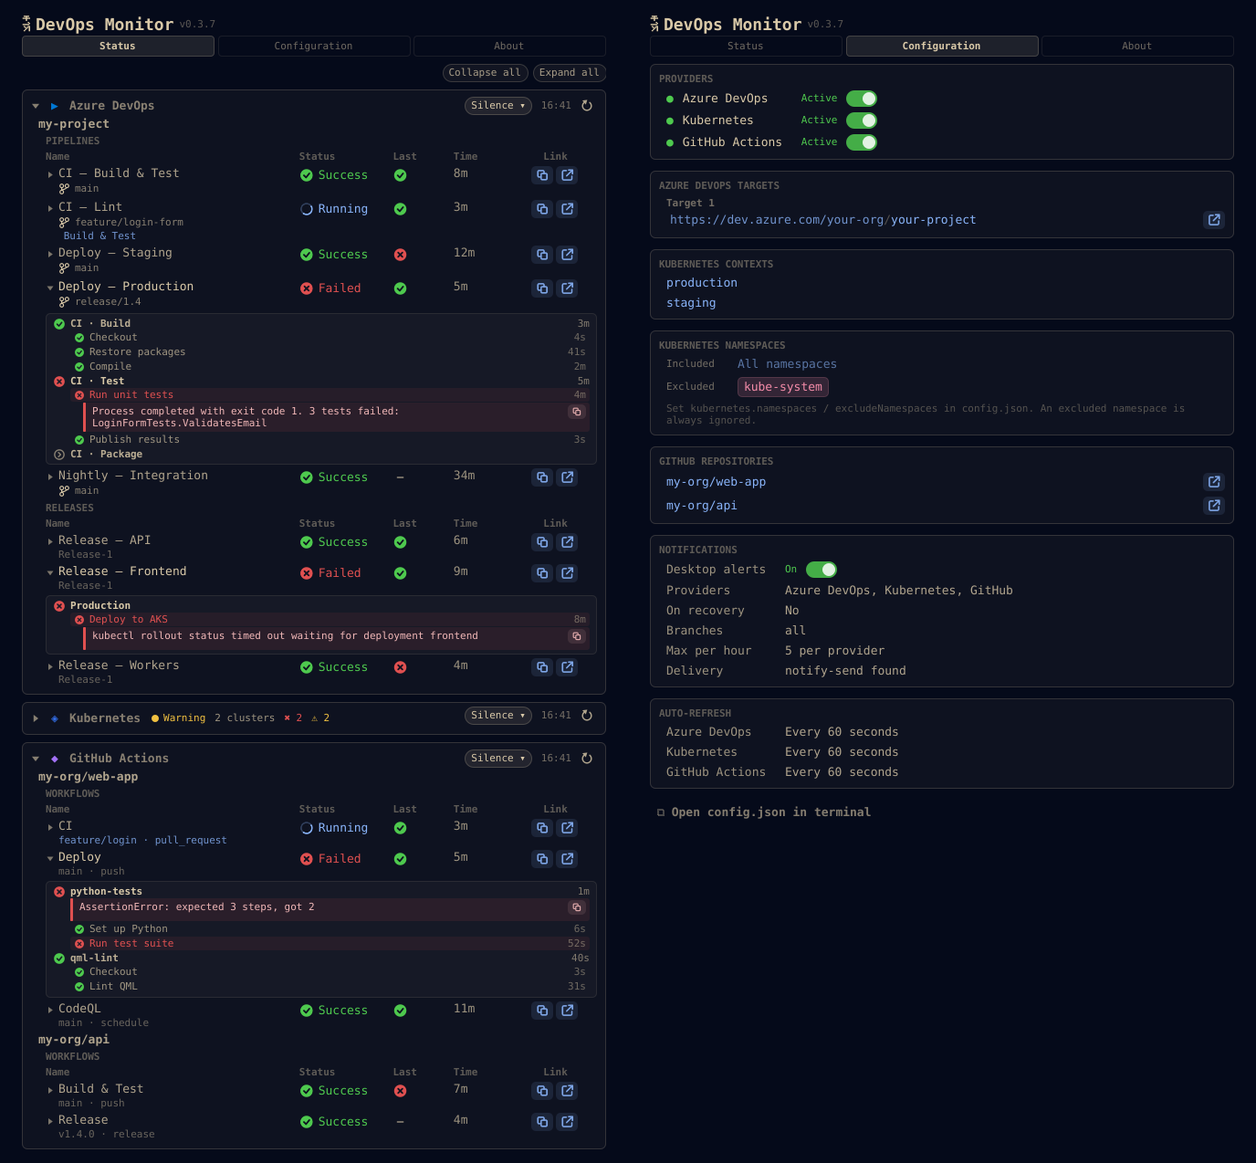
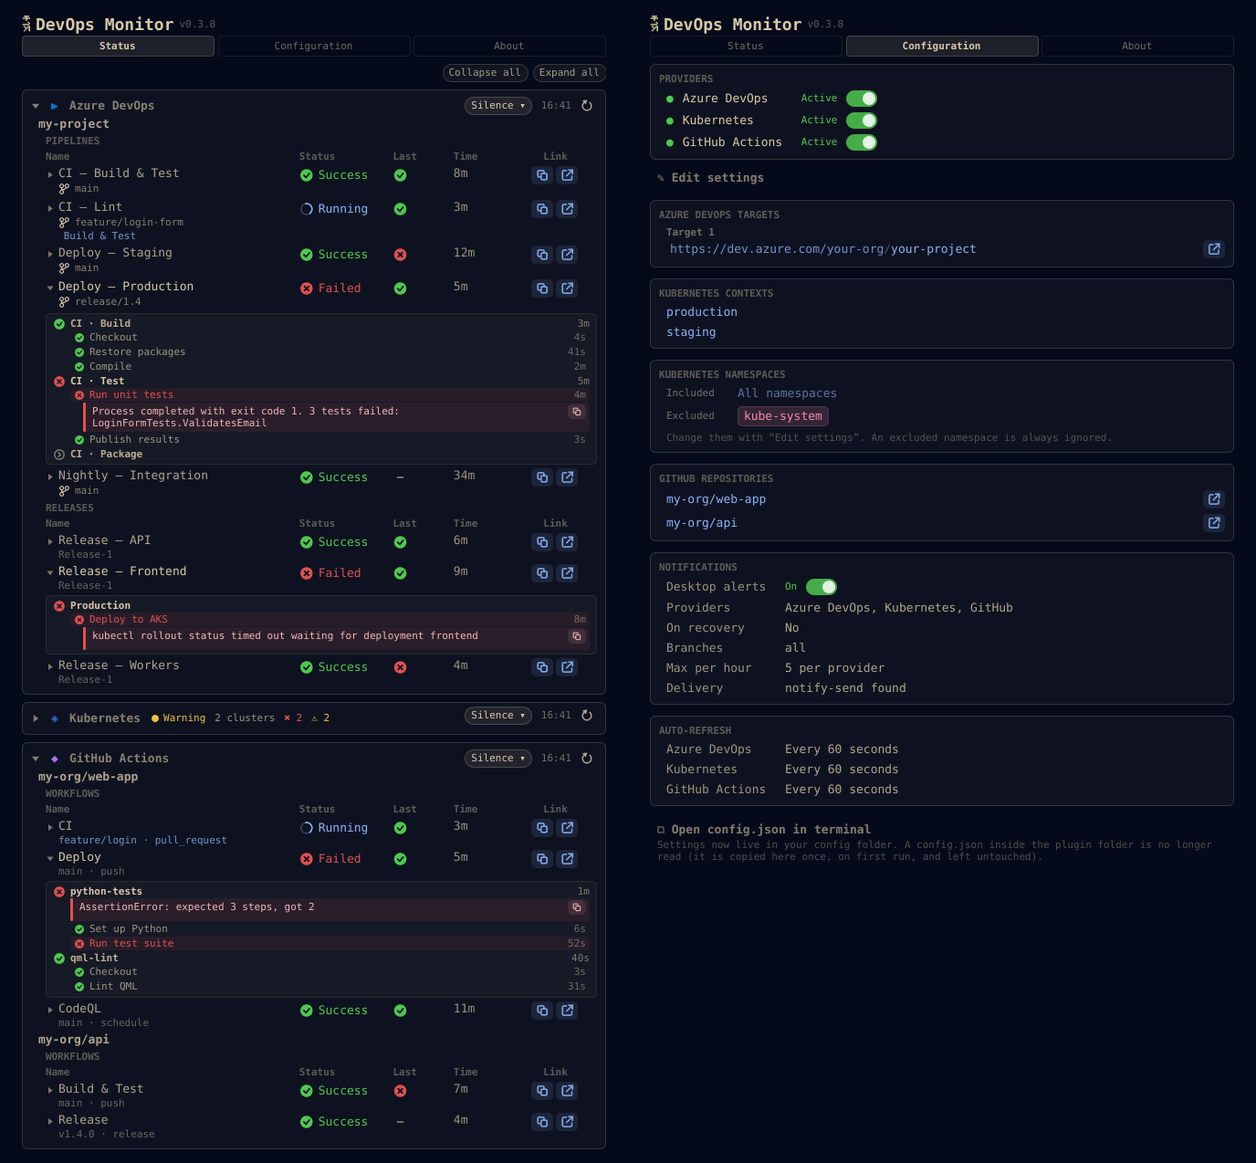
Docs and preview for 0.3.8: settings editor, new config location, migration
Claude-Session: https://claude.ai/code/session_01C5tsGxNbEP2C4eUG67qErP

diff --git a/docs/architecture.md b/docs/architecture.md
@@ -25,7 +25,7 @@
 
 2. **`BarWidget.qml` is the sole entry point.** It instantiates `Service` and loads `Panel.qml` via a `Loader`. The manifest declares only `bar-widget`.
 
-3. **`Service.qml` owns all data fetching.** It reads `config.json` on startup, builds subprocess arguments, and runs the Python scripts. The UI only reads properties.
+3. **`Service.qml` owns all data fetching.** It reads `config.json` (in the user's config folder) on startup, builds subprocess arguments, and runs the Python scripts. The UI only reads properties.
 
 4. **Python scripts, not shell scripts.** All CLI interaction happens in `scripts/azure_devops.py`, `scripts/kubernetes.py` and `scripts/github_actions.py`.
 
@@ -41,12 +41,19 @@
 - Loads `Panel.qml` via a `Loader`
 - Right-click or middle-click triggers manual refresh
 
+### `scripts/config_store.py` / `config_edit.py` / `read_config.py` / `write_config.py`
+
+- `config_store.py` is the only code that reads or writes `config.json`: location (`$XDG_CONFIG_HOME` or `~/.config` + plugin id), the one-time migration (copy, never move; `os.link` creates the file only if missing), the folder checks (0700, owned by the user, opened with `O_NOFOLLOW`), the 256 KB cap, symlink / non-regular refusals and atomic writes under `flock`
+- `config_edit.py preview|apply|contexts` serves the settings editor and reuses the provider validators (`azure_devops`, `github_actions`, `kubernetes`), so the saved values are always accepted by the providers
+- `read_config.py` prints the config (after migration), or its path with `--path`; `write_config.py` flips a single boolean (provider and notification switches)
+
 ### `Service.qml`
 
 - Headless `Item` — no UI
-- On startup: reads `config.json` via `scripts/read_config.py`, then runs Python scripts
+- On startup: asks `scripts/read_config.py --path` where `config.json` is, reads it via `scripts/read_config.py` (which runs the one-time migration), then runs Python scripts
 - One refresh timer and watchdog per provider (`refresh.<provider>` seconds, clamped 30–3600); every provider refresh re-reads config first
 - Exposes: `overallStatus`, `lastUpdated`, `refreshing`, `azureDevOps`, `kubernetes`, `github`, per-provider `azureRefreshing` / `kubernetesRefreshing` / `githubRefreshing` / `azureLastUpdated` / `kubernetesLastUpdated` / `githubLastUpdated`
+- Settings editor: `configPath`, `editState`, `editPreview`, `editErrors`, `kubeContexts`; `previewConfigEdit(changes)`, `applyConfigEdit()`, `resetConfigEdit()`, `loadKubeContexts()`. Each is one `Process` with a single JSON argument to `scripts/config_edit.py`; a successful apply refreshes the providers
 - Functions: `refresh()` (all), `refreshProvider(name)`, `setProviderEnabled(name, bool)` (persists `providers.<name>` via `scripts/write_config.py`, then refreshes that provider)
 - Uses `Process` + `StdioCollector` from `Quickshell.Io`
 
@@ -118,10 +125,18 @@
 - `JobDetail` shows the jobs (release stages) and tasks of the open row; the failing task is highlighted and `ErrorMessage` shows its message with a Copy icon. Everything is plain text, cleaned and bounded again in QML
 - For pipelines and workflows the table emits `detailRequested(key, spec, force)` and `Service.loadJobDetail()` answers in `Service.jobDetails[key]` (`loading` / `done` / `error`): one request at a time, a short queue, a 60 s watchdog and a cache of at most 40 entries. Releases need no request: their stages come with the refresh
 
+### `ConfigEditor.qml`
+
+- Shown by the Configuration tab (a `Loader` in `Panel.qml`) after **Edit settings**; it replaces the four read-only cards while open
+- Works on a draft kept in `ListModel`s (one per list) so typing never rebuilds a text box. `errors` holds the early checks (same rules as the backend) plus the backend's last answer; the next edit clears that answer
+- **Review & save** calls `Service.previewConfigEdit(draft)`; `scripts/config_edit.py preview` validates and returns the diff, writing nothing. **Save** calls `applyConfigEdit()`: validated again, `config.json.bak` kept, one atomic write. Nothing is written while typing
+- Namespaces are chips plus an add box; text typed but not added blocks saving ("Press Enter to add it")
+- All text from the user or from `kubectl` is shown as plain text
+
 ### `CollapseChevron.qml` / `ProviderSummary.qml` / `CollapseAllBar.qml`
 
 - Each provider card header has a click area (`azureHeaderToggle`, `k8sHeaderToggle`, `githubHeaderToggle`) and a `CollapseChevron`. The Silence control and the refresh icon sit above that area, so they do not toggle the card
-- `Panel.qml` keeps which cards are collapsed (`collapsed`, with `toggleCollapsed(name)` and `setAllCollapsed(value)`) in memory only. It is deliberately not written to `config.json`: that would rewrite the plugin folder on every click, and Omarchy reloads the plugin whenever a file in it changes. Only the three provider names are accepted
+- `Panel.qml` keeps which cards are collapsed (`collapsed`, with `toggleCollapsed(name)` and `setAllCollapsed(value)`) in memory only. It is deliberately not saved: that would mean writing the settings file on every click. Only the three provider names are accepted
 - A collapsed card hides its notice and its tables / clusters (they stay loaded, so refresh, alerts and open rows are untouched) and shows `ProviderSummary` in the header
 - `ProviderSummary` reads the data the provider already produced (nothing is fetched): status, number of projects / repos / clusters and run counts (Azure DevOps, GitHub) or failed / warning issues (Kubernetes). Numbers are bounded and strings cleaned again; for an offline provider it shows the notice title or the error text. It is clipped to the room left by the Silence control
 - `CollapseAllBar` has the two pills and only emits `collapseAll()` / `expandAll()`
@@ -159,7 +174,7 @@
 
 ```
 Component.onCompleted
-  -> cat config.json
+  -> read_config.py (~/.config/<plugin id>/config.json; migrates once)
   -> parse targets
   -> python3 scripts/azure_devops.py --target ORG PROJECT
   -> az pipelines runs list
@@ -178,8 +193,11 @@ heinsk.devops/
 |-- Service.qml          <- data and state
 |-- Panel.qml            <- popup UI
 |-- K8sClusterDetail.qml, K8sIssueRow.qml, NamespaceRow.qml, NamespaceChips.qml  <- Kubernetes detail views
-|-- config.json          <- user configuration
+|-- ConfigEditor.qml     <- settings editor of the Configuration tab (draft, checks, review)
+|-- config.json          <- default configuration shipped with the plugin; copied ONCE to the user's config folder, then ignored
 |-- scripts/
+|   |-- config_store.py  <- where config.json lives, migration, safe read / atomic write
+|   |-- config_edit.py   <- preview / apply / contexts for the settings editor
 |   |-- azure_devops.py  <- Azure DevOps CLI wrapper
 |   |-- kubernetes.py    <- kubectl wrapper
 |   +-- github_actions.py <- gh wrapper

diff --git a/README.md b/README.md
@@ -119,7 +119,7 @@ Click the name of a pipeline, release or workflow (the ▸ chevron) to expand it
 Click the header of a provider card (Azure DevOps, Kubernetes, GitHub Actions) to collapse it or open it again; the ▾ / ▸ triangle shows the state. A collapsed card keeps a **one-line summary**, for example `● Warning  2 repos  ◔ 1 running  ✖ 1 failed`, plus its Silence control and refresh icon. If the provider could not read anything, the summary says why (for example the notice title or the error text). **Collapse all** and **Expand all** appear above the cards when two or more providers are on.
 
 - Collapsing only hides the card. The data keeps refreshing and desktop alerts keep working.
-- The state is kept while the panel is running and is **not saved**: after Omarchy restarts or the plugin reloads, every card starts open. This is on purpose: saving it would rewrite `config.json` on every click, and Omarchy reloads the plugin whenever a file in its folder changes.
+- The state is kept while the panel is running and is **not saved**: after Omarchy restarts or the plugin reloads, every card starts open. This is on purpose: saving it would mean writing the settings file on every click.
 
 Kubernetes clusters use their own columns: **Cluster**, **Status** (`Healthy` / `Warning` / `Offline`), **Nodes**, **Pods** and **Deployments** ready.
 
@@ -127,7 +127,7 @@ Kubernetes clusters use their own columns: **Cluster**, **Status** (`Healthy` / 
 
 - **Needs attention** appears under a cluster when something is not healthy. It names the node, pod or deployment, its namespace, the reason (`CrashLoopBackOff`, `ImagePullBackOff`, `OOMKilled`, `Evicted`, `Pending`, `NotReady`, a node under memory/disk pressure, ...) and the restart count. Failed items are red, items that are not ready yet are yellow.
 - **Pods by namespace** is collapsed by default and shows how many namespaces have problems. Click it to see only the namespaces with problems; **Show all** opens the full list (problems first) in a fixed-height area with its own scroll, so a cluster with dozens of namespaces never makes the panel grow.
-- To watch only some namespaces, set `kubernetes.namespaces` (include) and/or `kubernetes.excludeNamespaces` (exclude; wins over include) in `config.json`. The Configuration tab shows the active filter.
+- To watch only some namespaces, set `kubernetes.namespaces` (include) and/or `kubernetes.excludeNamespaces` (exclude; wins over include) with **Edit settings** on the Configuration tab (or in `config.json`). The Configuration tab shows the active filter.
 
 ### Notices: what to do next
 
@@ -164,6 +164,23 @@ Each provider refreshes on its own timer, set by `refresh.azureDevOps` / `refres
 
 On the **Configuration** tab, use the switch next to a provider to enable or disable it. The choice is saved to `providers.<name>` in `config.json` (only that one value is changed). If `config.json` is a symlink the panel will not write to it and shows an error instead — edit the file manually in that case.
 
+### Edit settings
+
+On the **Configuration** tab, **Edit settings** lets you change, without opening a file:
+
+- the **Azure DevOps targets** (organization URL + project),
+- the **GitHub repositories** (`owner/repo`),
+- the **Kubernetes contexts** (choose from the ones `kubectl` lists, or *All contexts*) and the **included / excluded namespaces**.
+
+How it works:
+
+- You edit a **draft**. Each value is checked as you type (the same rules the providers use, so a saved value is never rejected later) and the problem is shown under the field.
+- **Review & save** shows the exact lines of `config.json` that will change. Nothing is written until you press **Save**, and then the file is written **once**. The previous content is kept as `config.json.bak`.
+- Everything else in `config.json` (refresh intervals, notifications, `development`, your own keys) is kept as it is. The file is re-saved with standard formatting (2-space JSON).
+- The panel refuses to write (and says why) when `config.json` is a symlink, is not valid JSON, is larger than 256 KB or is not a regular file; edit it by hand in that case.
+- Refresh intervals and the other advanced options are not editable from the panel yet.
+- Testing the connection to a service is not part of this version.
+
 ---
 
 ## Installation
@@ -184,7 +201,15 @@ omarchy-restart-shell
 
 ## Configuration
 
-`~/.config/omarchy/plugins/io.github.heinsk.devops-monitor/config.json`
+`~/.config/io.github.heinsk.devops-monitor/config.json` (or `$XDG_CONFIG_HOME/io.github.heinsk.devops-monitor/config.json` when `XDG_CONFIG_HOME` is an absolute path)
+
+Since **0.3.8** the settings live in your own config folder, not in the plugin folder. The **Configuration** tab shows the exact path and **Open config.json in terminal** opens it. Silences stay in `~/.local/state/io.github.heinsk.devops-monitor/state.json`.
+
+**Migration (automatic, once):** the first time 0.3.8 runs and the file above does not exist, it is created as a byte-for-byte **copy** of the `config.json` of the plugin folder (or a minimal file with every provider off when there is none). The old file is never changed or deleted, and **after that it is ignored**: edit the new one. If the old file is not valid JSON it is not copied and the panel says so. If the config folder cannot be created, the panel shows an error instead of reading the old file.
+
+If an update of the plugin replaced your old `config.json` before 0.3.8 ran, there is nothing to copy: set your targets again with **Edit settings**.
+
+Why a separate folder: Omarchy reloads a plugin whenever a file inside its folder changes, so every save from the panel would have reloaded it. The file in your config folder is not inside the plugin folder, so saving is not expected to reload the plugin (not yet confirmed on every Omarchy version; if you see a reload when saving, please open an issue).
 
 ```json
 {

diff --git a/docs/configuration.md b/docs/configuration.md
@@ -1,8 +1,24 @@
 # Configuration
 
-The plugin reads `config.json` from the plugin folder on every refresh.
+The plugin reads `config.json` on every refresh.
 
-Location: `~/.config/omarchy/plugins/heinsk.devops/config.json`
+Location: `~/.config/io.github.heinsk.devops-monitor/config.json`
+(`$XDG_CONFIG_HOME/io.github.heinsk.devops-monitor/config.json` when `XDG_CONFIG_HOME` is an absolute path). The Configuration tab shows the exact path.
+
+## Where the file lives, and the migration (0.3.8)
+
+Before 0.3.8 the file was `config.json` inside the plugin folder. Omarchy reloads a plugin whenever a file inside its folder changes, so a file the panel can edit has to live elsewhere: it now lives in your config folder, which is not inside the plugin folder.
+
+- **Automatic, once.** When the new file does not exist yet, it is created as a byte-for-byte **copy** of the plugin folder's `config.json`. With no old file, a minimal file (every provider off) is created.
+- **The old file is never changed or deleted**, and after the copy it is **ignored**. Edit the new file.
+- A damaged old file (invalid JSON) is not copied; the panel says so. If the config folder cannot be created or is not yours, the panel shows an error: the plugin does not fall back to the old file.
+- The folder is created with mode `0700` and the file with `0600`; the folder is opened without following links and must belong to your user. Reads and writes are capped at 256 KB. Writes are atomic (temporary file + rename) and serialized, so two writers never leave half a file. `config.json.bak` holds the content before the last save from the panel.
+- No credentials are stored here. Silences are in `~/.local/state/io.github.heinsk.devops-monitor/state.json`.
+- Saving from the panel is **not expected** to reload the plugin (the file is outside its folder). This has been reasoned from how Omarchy reloads plugins, not confirmed on every version. Editing the file by hand is fine too: it is read again on the next refresh.
+
+## Editing from the panel
+
+Configuration tab → **Edit settings**. Editable: `azureDevOps.targets`, `github.repos`, `kubernetes.contexts`, `kubernetes.allContexts`, `kubernetes.namespaces`, `kubernetes.excludeNamespaces`. You change a draft, every value is checked as you type, **Review & save** shows the lines that will change, and **Save** writes once (keeping `config.json.bak`). Limits: 20 targets, 20 repositories, 20 contexts, 50 namespaces; duplicates are refused. All other keys are kept exactly as they are (the file is re-saved as 2-space JSON). The same validation runs again in `scripts/config_edit.py` before writing, so the panel can never save a value the providers would reject. A symlink, invalid JSON, a file over 256 KB or a non-regular file is refused with a message; edit it by hand then.
 
 ## Full Example
 
@@ -71,8 +87,9 @@ Changes are picked up on the next refresh of that provider.
 > `providers.azureDevOps` / `providers.kubernetes` / `providers.github` can also be changed
 > from the panel (Configuration tab → switch next to the provider). The
 > plugin then edits only that boolean in `config.json`
-> (`scripts/write_config.py`); it refuses to write if `config.json` is a
-> symlink, not a regular file, invalid JSON, or larger than 256 KB.
+> (`scripts/write_config.py`, through `scripts/config_store.py`); it refuses to
+> write if `config.json` is a symlink, not a regular file, invalid JSON, or
+> larger than 256 KB.
 
 ### `azureDevOps`
 
@@ -145,7 +162,7 @@ How it behaves:
 - Alerts are sent with `notify-send` (package `libnotify`, `/usr/bin/notify-send`), which talks to your notification server (mako on Omarchy) over the standard D-Bus interface. The plugin checks at startup that it exists and the Configuration tab shows **Delivery: notify-send found / not found**. Without it desktop alerts are disabled: the **Silence** controls are hidden, the Notifications card says "Unavailable — notify-send not found" and nothing is sent, while the panel and the bar counter keep working.
 - **Silence**: with notifications on, each provider header has a **Silence** control (1 hour, until 08:00, indefinitely). Problems that appear while silenced are consumed silently, so unmuting never replays them. Silences are kept in `$XDG_STATE_HOME/io.github.heinsk.devops-monitor/state.json` (default `~/.local/state/...`), a private file (0600) in a private folder (0700); the plugin never writes anything else outside its own config.
 - The bar shows a problem count (`! 7`) and the tooltip lists the count per provider.
-- The Configuration tab has a **Desktop alerts** switch under **Notifications** (shown only when `notify-send` exists). It writes `notifications.enabled` in `config.json` the same way the provider switches write `providers.*`, and a config without a `notifications` block gets `{ "enabled": true }`. The other settings are shown read-only; edit them in `config.json`.
+- The Configuration tab has a **Desktop alerts** switch under **Notifications** (shown only when `notify-send` exists). It writes `notifications.enabled` in `config.json` the same way the provider switches write `providers.*`, and a config without a `notifications` block gets `{ "enabled": true }`. The other settings are shown read-only; edit them in `config.json` (the path is shown on the Configuration tab).
 - **Testing with mock data:** Omarchy reloads a plugin whenever a file inside its folder changes, and after a reload the first reading is the new baseline, so editing `mock/*.json` in place never produces an alert. Keep the mock outside the folder and link it: `cp mock/azure-devops.json ~/azure-devops-mock.json && mv mock/azure-devops.json mock/azure-devops.json.orig && ln -s ~/azure-devops-mock.json mock/azure-devops.json`, then edit the copy in your home folder.
 
 ### `development`

diff --git a/docs/testing.md b/docs/testing.md
@@ -21,6 +21,8 @@ python3 tests/test_notices.py     # a single test file
 | `test_state_store.py` | The silence state file: private permissions, symlinks refused, corrupt or huge files ignored, concurrent writers |
 | `test_job_detail.py` | Jobs, tasks and error messages (Azure DevOps timeline and releases, GitHub jobs and annotations): parsing, caps, text cleaning, argument validation, read-only requests, mock mode |
 | `test_mock_and_config.py` | Mock mode of the three providers; `read_config.py` and `write_config.py` (symlink, invalid JSON, size) |
+| `test_config_store.py` | Where `config.json` lives (`XDG_CONFIG_HOME` rules), the one-time migration (byte-for-byte copy, old file untouched, damaged old file not copied), folder and file permissions, symlinks / FIFOs refused, concurrent first runs |
+| `test_config_edit.py` | The settings editor backend: validation of every field, `preview` writes nothing, `apply` keeps other keys and key order and writes `config.json.bak`, refusals, kubectl context listing |
 
 GitHub runs the same command on every pull request (`.github/workflows/test.yml`):
 a red mark next to "Checks" means a test failed.
@@ -176,6 +178,17 @@ Silence control in a header: the card must NOT collapse. **Collapse all** and
 **Expand all** (shown with two or more providers on) change all cards at once.
 Restart the plugin: every card starts open again (the state is not saved).
 
+### Test editing the settings
+
+1. Configuration tab → **Edit settings**. The values you had appear in the fields. Type `not a repo` in a repository: the field turns red and **Review & save** is disabled. Fix it.
+2. Add a namespace: type it and press Enter (a chip appears). Text left in the add box blocks saving.
+3. **Review & save** shows the lines that change; **Back** returns to the form with your draft. Press **Save**: the panel refreshes and `config.json.bak` holds the previous content.
+4. Check the file: `cat ~/.config/io.github.heinsk.devops-monitor/config.json` and that keys you did not touch (`refresh`, `notifications`) are unchanged.
+5. Reload check (not verified yet on a real Omarchy): save once and watch `/run/user/$UID/quickshell/by-pid/<PID>/log.log`; a "reloading" line after saving means the config folder is watched too.
+6. Make `config.json` a symlink to another file and try to save: the panel must refuse with a message and leave both files alone.
+7. Migration: with no file in `~/.config/io.github.heinsk.devops-monitor/`, put a `config.json` in the plugin folder and restart the shell; the new file is an exact copy and the old one is untouched. Edits to the old one are then ignored.
+8. **Open config.json in terminal** opens the new path (shown under the link).
+
 ## 5. Pre-commit checklist
 
 ```
@@ -191,6 +204,8 @@ Restart the plugin: every card starts open again (the state is not saved).
 [ ] Open link opens the browser; Copy URL copies the link
 [ ] Expanding a failed row shows its jobs, tasks and error message
 [ ] About tab shows the summary and the animation; it stops when leaving the tab
+[ ] Edit settings: invalid values are marked, Review shows the diff, Save writes once and keeps config.json.bak
+[ ] Open config.json opens ~/.config/io.github.heinsk.devops-monitor/config.json
 [ ] Clicking a provider header collapses it and shows its summary; refresh and Silence do not collapse it
 [ ] Failed pipeline shows red status
 [ ] Last column shows previous run status

diff --git a/docs/setup.md b/docs/setup.md
@@ -16,7 +16,7 @@ omarchy-restart-shell
 
 ## 2. Configure
 
-Create or edit `~/.config/omarchy/plugins/io.github.heinsk.devops-monitor/config.json`:
+The easiest way is the **Configuration** tab → **Edit settings** (Azure DevOps targets, GitHub repositories, Kubernetes contexts and namespaces). To edit the file by hand, it is `~/.config/io.github.heinsk.devops-monitor/config.json` (created on first run; since 0.3.8 it no longer lives in the plugin folder, and a `config.json` in the plugin folder is copied there once and then ignored):
 
 ```json
 {
@@ -232,7 +232,8 @@ installer offers one, so upgrades do not break it.
   that are not valid repository names make the provider show an error in
   the panel and nothing is passed to `gh`.
 - You can also turn the provider on from the Configuration tab; the
-  switch edits only `providers.github` in `config.json`.
+  switch edits only `providers.github` in `config.json`, and **Edit settings**
+  adds or removes repositories.
 
 ### Test
 
@@ -265,7 +266,7 @@ repository's last 30 runs) are shown.
 | `Too many repositories configured (...) — max is 20` | Shorten the `repos` list (the panel itself only passes the first 20) |
 | `JSON parse error in gh output (... starts with: ...)` | `gh` printed something that is not the expected JSON; the start of its output is shown. Run `gh run list --repo OWNER/REPO --limit 5 --json databaseId,workflowName,status,conclusion,url` in a terminal and compare (also check `gh --version`) |
 | A repository shows `Offline` | `gh` failed for it (not found, no access, timeout after 30 s); the message is shown in the panel |
-| `No repositories configured — add owner/repo entries under github.repos in config.json` | Add at least one repository to `github.repos` |
+| `No repositories configured — add owner/repo entries under github.repos in config.json` | Add at least one repository with **Edit settings** (or to `github.repos`) |
 
 ## Per-provider refresh and enable/disable
 

diff --git a/SECURITY.md b/SECURITY.md
@@ -6,3 +6,12 @@ Report security issues privately via GitHub's security advisory feature:
 https://github.com/heinsk/omarchy-devops-monitor/security/advisories/new
 
 Do not open a public issue for security vulnerabilities.
+
+## Where the plugin writes
+
+The plugin writes only two files, both private (mode 0600, in a 0700 folder you own, never through a symlink, atomically):
+
+- `~/.config/io.github.heinsk.devops-monitor/config.json` (and `config.json.bak`): your settings, changed only when you press **Save** in the panel or flip a switch. Only the Azure DevOps targets, GitHub repositories and Kubernetes contexts / namespaces can be edited from the panel; every value is validated before it is written.
+- `~/.local/state/io.github.heinsk.devops-monitor/state.json`: notification silences.
+
+No credentials are stored in either file.
